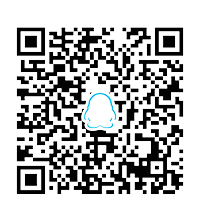
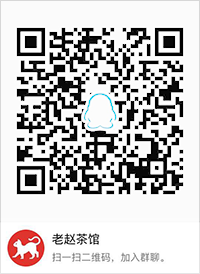
更新qq群图片

diff --git a/docs/lab/mobile.html b/docs/lab/mobile.html
@@ -11,7 +11,7 @@
     <link rel="shortcut icon" href="./img/favicon.ico">
     <link rel="stylesheet" href="./css/normalize.css">
     <link rel="stylesheet" href="./css/mobile.css">
-    <link rel="stylesheet" href="./css/artplayer.css">    
+    <link rel="stylesheet" href="../uncompiled/artplayer.css">    
 </head>
 
 <body>
